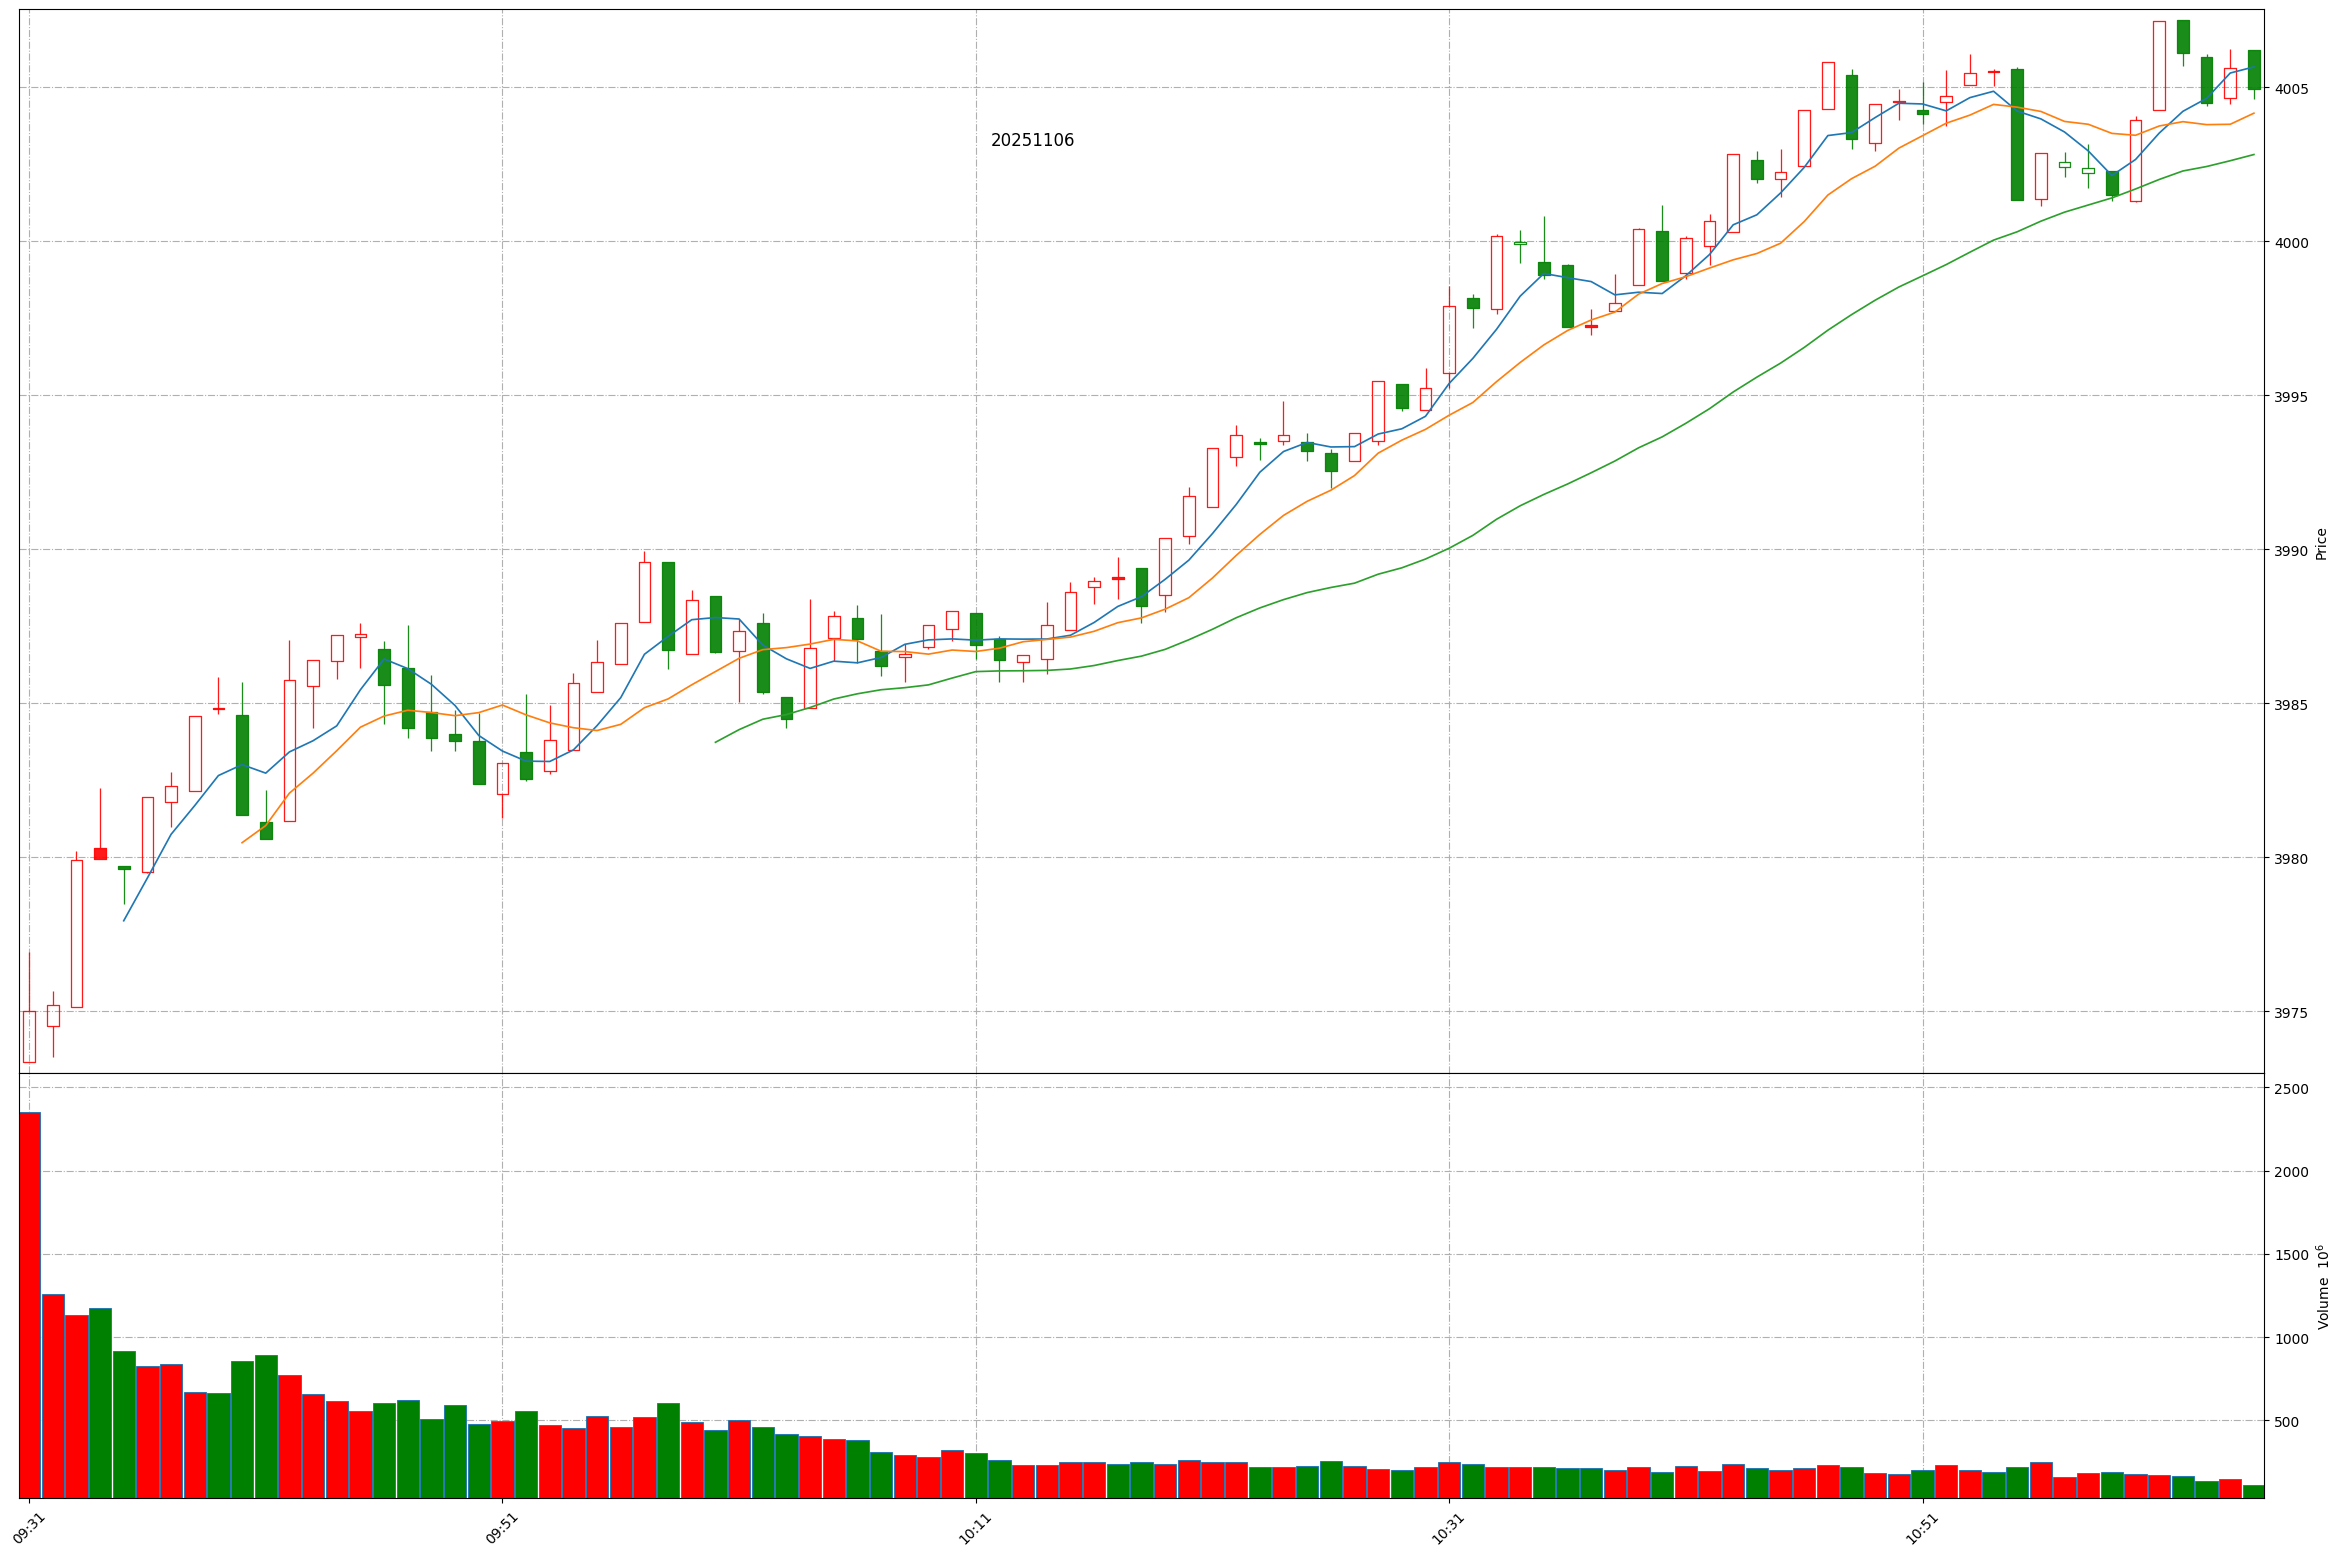
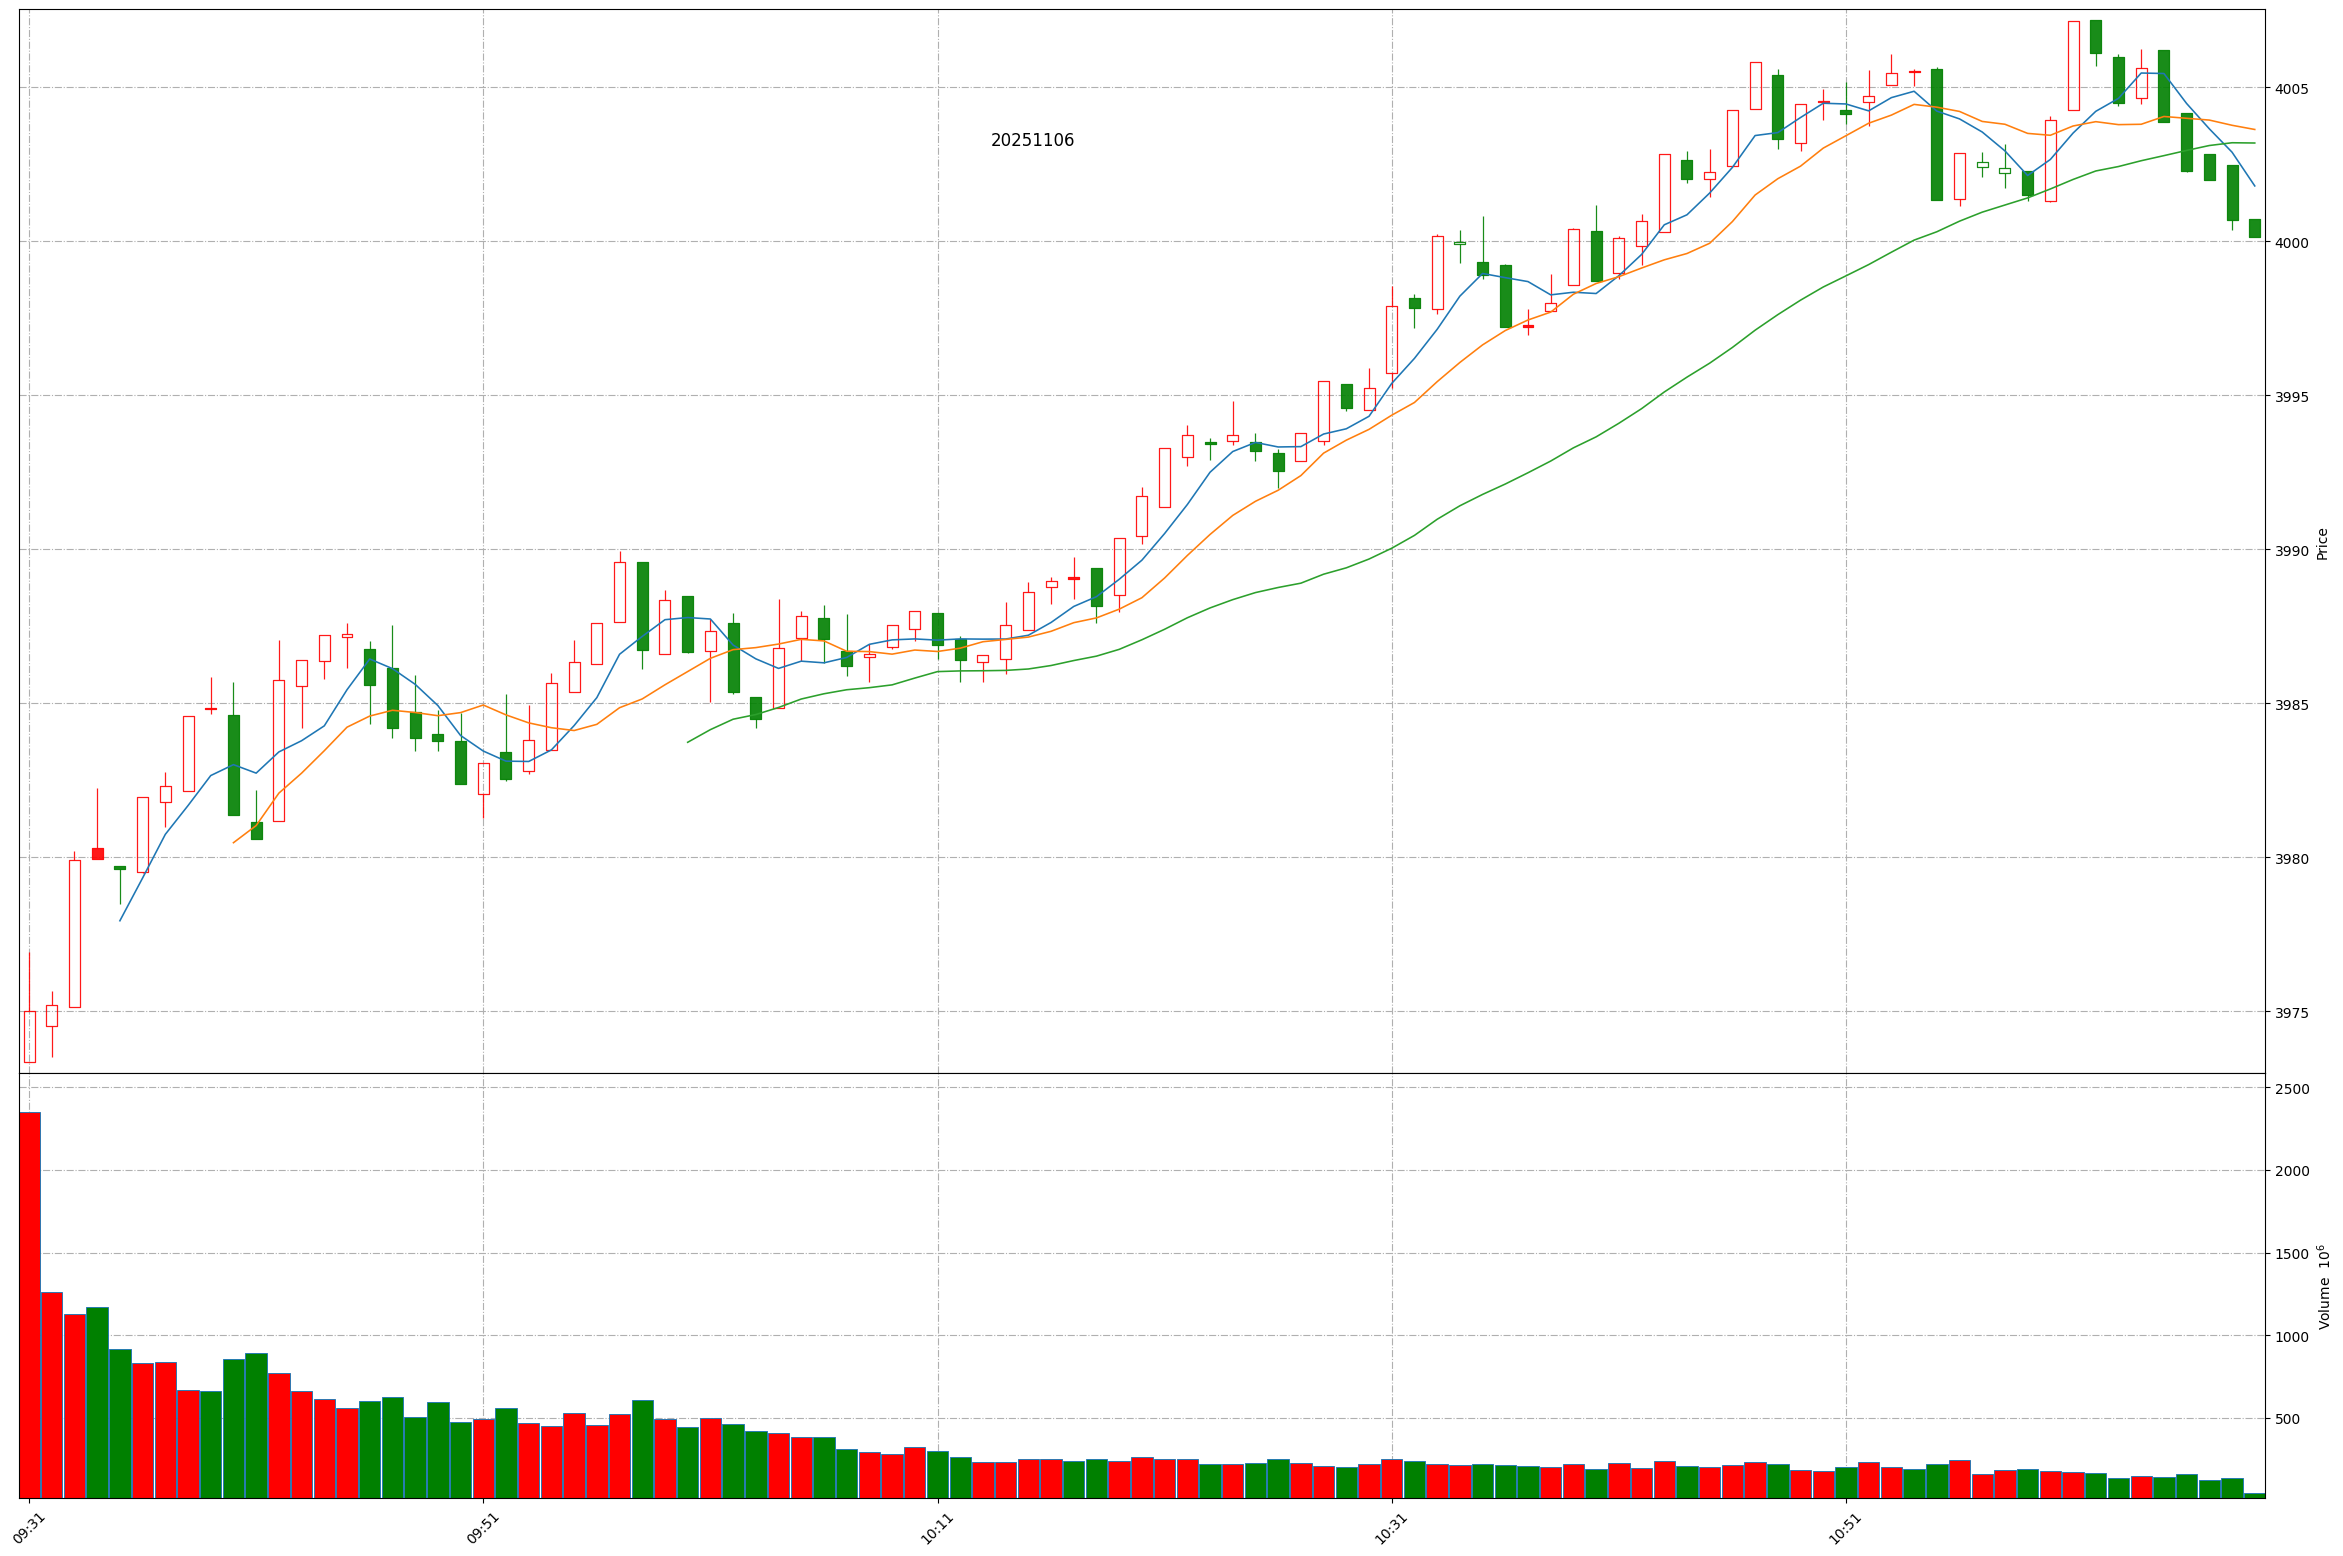
Github action update at 2025-11-06 11:08:38.

diff --git a/README.md b/README.md
@@ -1,11 +1,11 @@
 
 # Daily-A-share-market-quotes 每日 A 股指数（5min 更新）- 20251106
 
-### 上证指数 20251106 11:5
+### 上证指数 20251106 11:8
 ![](./fig/2025/11/20251106-sh000001.png)
 
-### 深证成指 20251106 11:5
+### 深证成指 20251106 11:8
 ![](./fig/2025/11/20251106-sz399001.png)
 
-### 北证50 20251106 11:5
+### 北证50 20251106 11:8
 ![](./fig/2025/11/20251106-bj899050.png)
